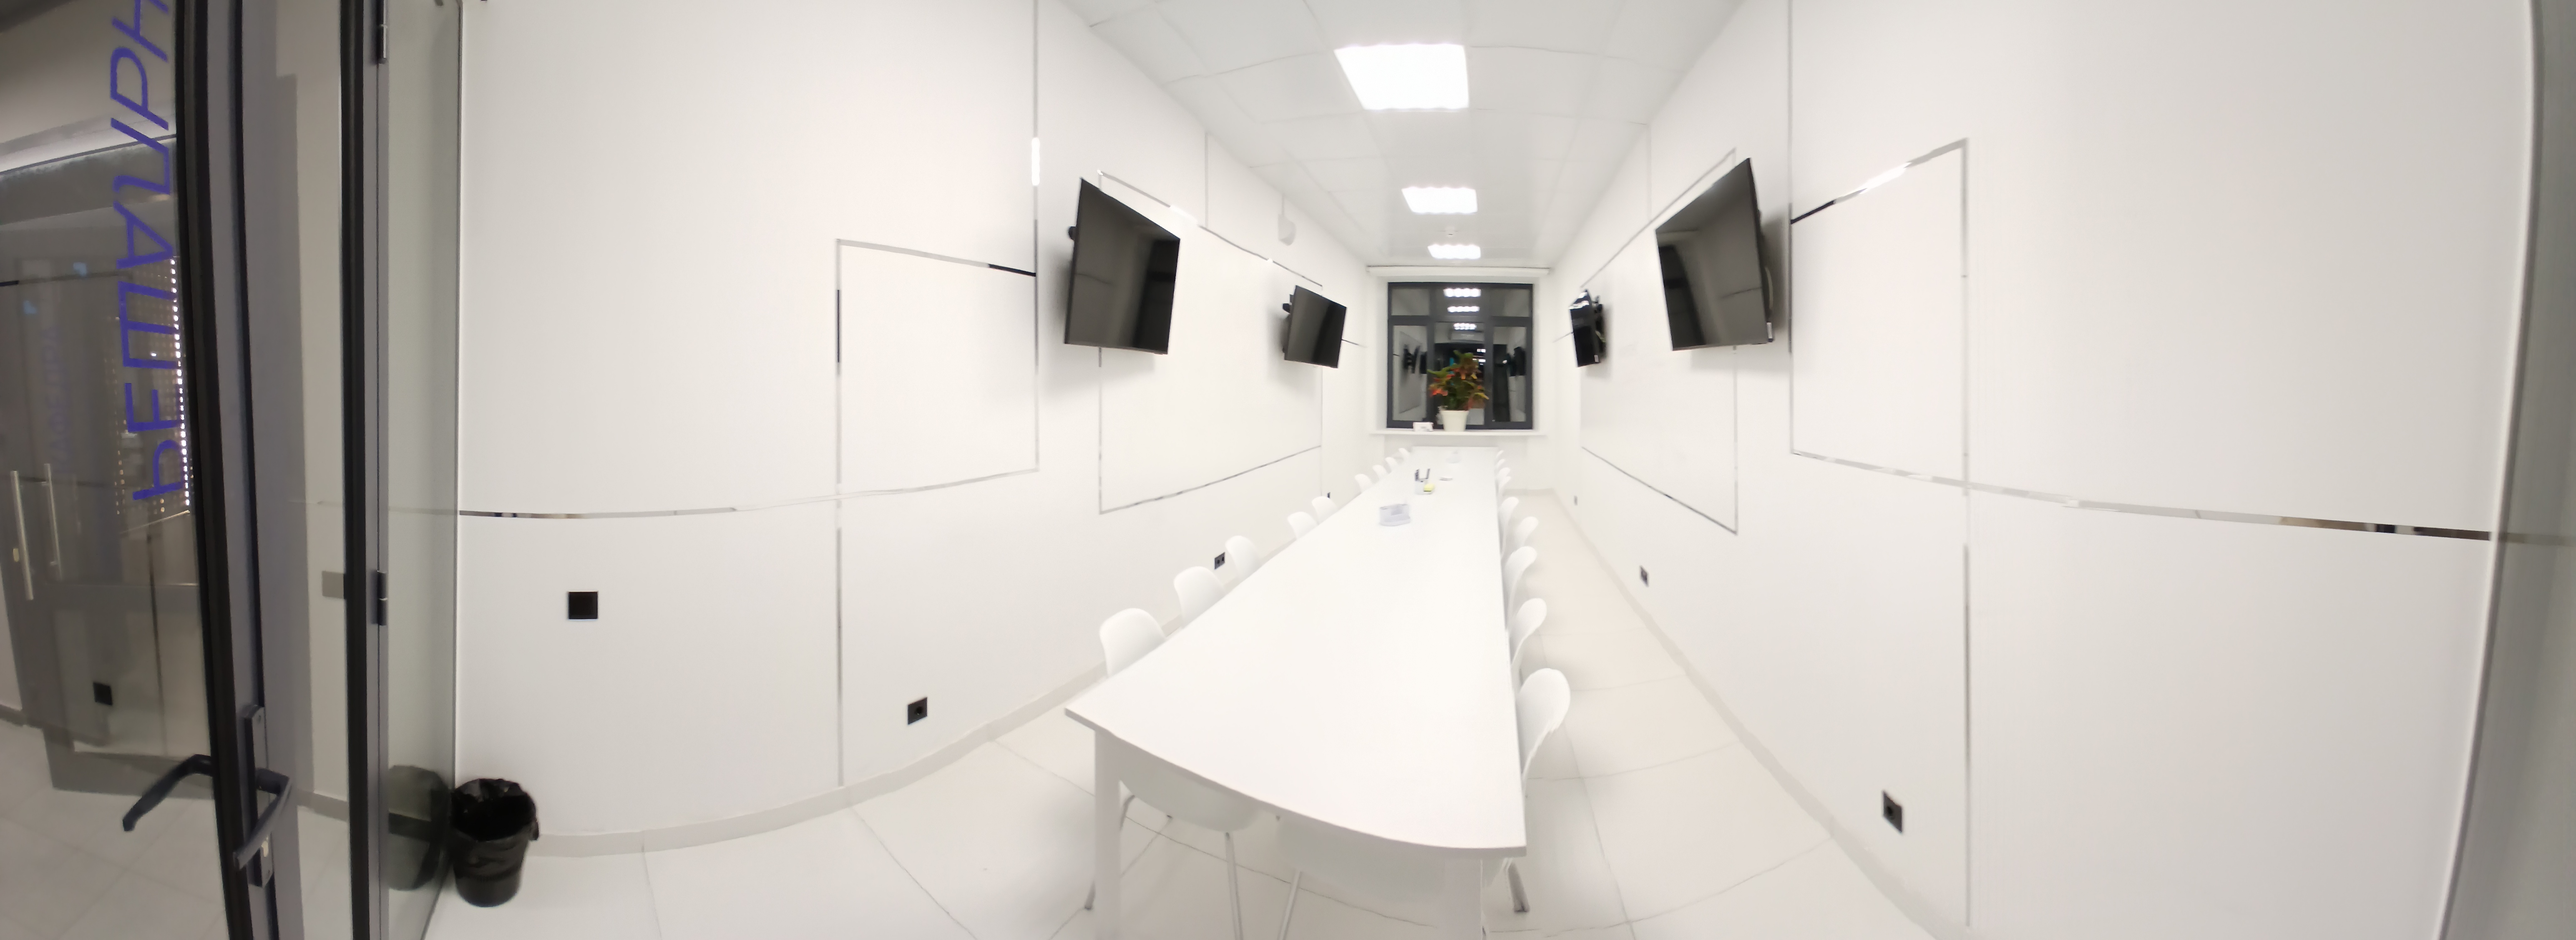
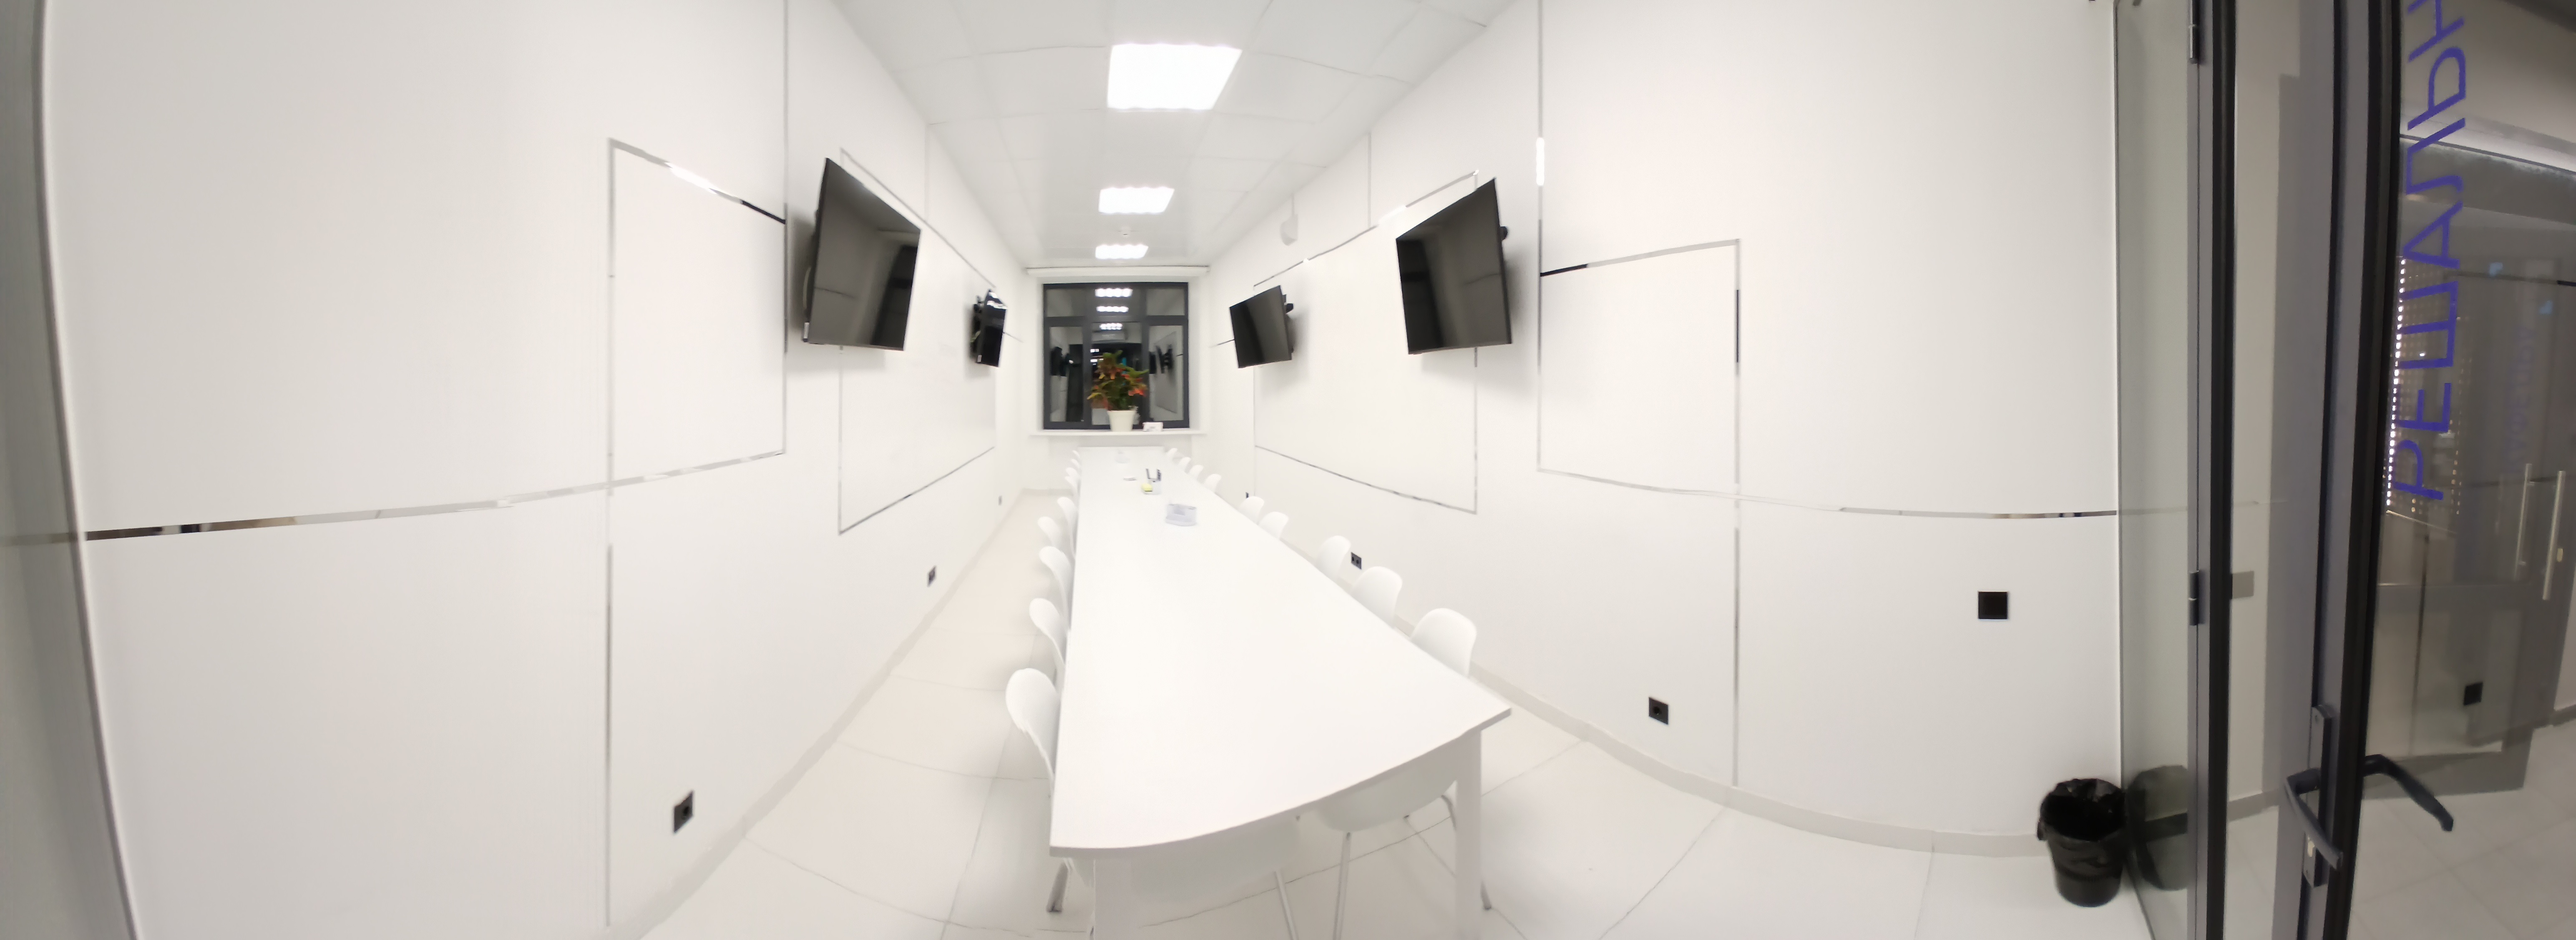
Зазеркалил панорамы для нормального отображения. Переименовал.

diff --git a/src/components/CylindricalPanorama.jsx b/src/components/CylindricalPanorama.jsx
@@ -32,7 +32,7 @@ const CylindricalPanorama = ({ imageUrl, onClose }) => {
             return imageUrl;
         }
         // Иначе добавляем базовый путь
-        return `/panoramas/${imageUrl}`;
+        return `../src/assets/panoramas/${imageUrl}`;
     }, [imageUrl]);
 
     // Проверка поддержки WebGL
